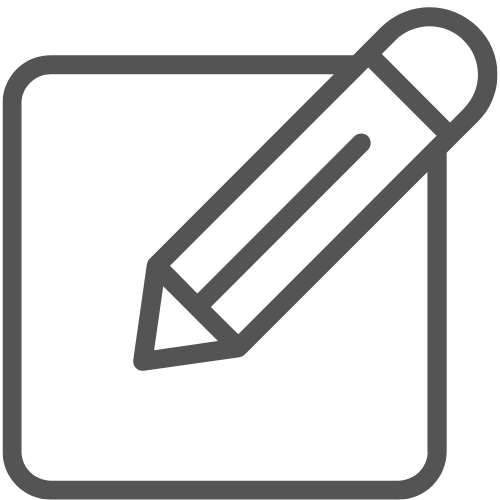
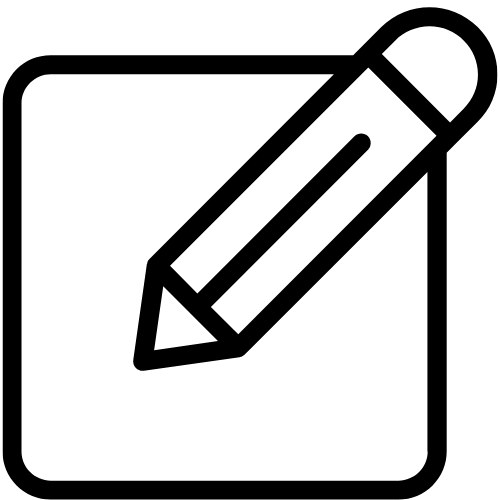
feat:

Changed region(s): [[0.0, 0.0, 1.0, 1.0]]

diff --git a/pedidos.html b/pedidos.html
@@ -635,8 +635,8 @@ function populateModal(orderDetails) {
                 <td>${formatCurrency(productTotal)}</td>
 
 
-                <td><button class="modalOrderButton"><img src="/imagens/pencil2.png" alt="Editar"></button></td>
-                <td><button class="modalOrderButton"><img src="/imagens/trashcan2.png" alt="Editar"></button></td>
+                <td><button class="modalOrderButton"><img src="/imagens/pencil.png" alt="Editar"></button></td>
+                <td><button class="modalOrderButton"><img src="/imagens/trashcan.png" alt="Editar"></button></td>
 
 
             </tr>

diff --git a/script.js b/script.js
@@ -69,7 +69,7 @@ function populateProductTable(products) {
       cell6.textContent = product.cxfracionada || "N/A"; // Quantity Fractioned
       cell7.textContent = `${formatCurrency(product.precofrac)}`; // Price Fractioned
       //cell7.textContent = `R$ ${parseFloat(product.precofrac).toFixed(2)}`; // Price Fractioned
-      cell8.innerHTML = `<button class="openModalBtn"><img src="/imagens/shoppingcart1.png" alt="Adicionar"></button>`;
+      cell8.innerHTML = `<button class="openModalBtn"><img src="/imagens/shoppingcart.png" alt="Adicionar"></button>`;
 
 
 
